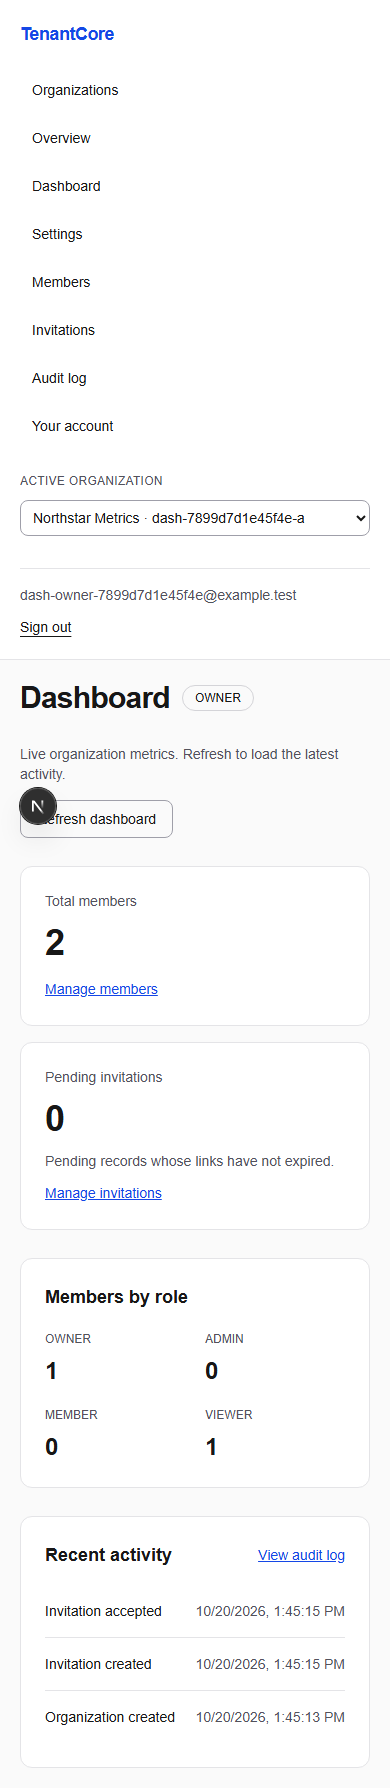
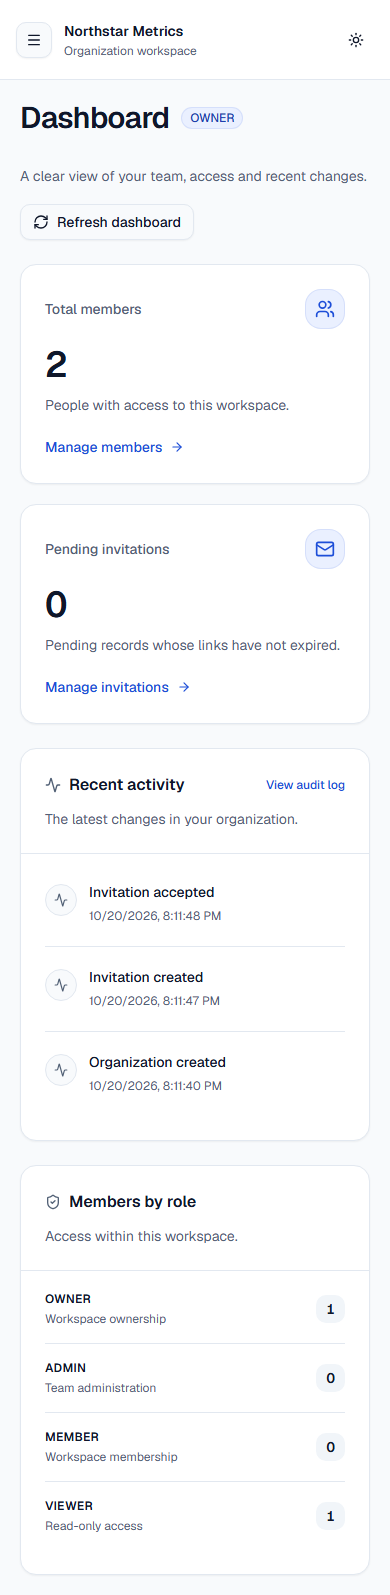
docs(ui): document component ownership and reviewed workspace captures

diff --git a/docs/architecture/ui-foundation.md b/docs/architecture/ui-foundation.md
@@ -1,0 +1,100 @@
+# Frontend UI foundation
+
+TC-013 introduces the first visual slice: workspace navigation and the live
+dashboard. [ADR 0006](../adr/0006-ui-foundation-and-motion.md) explains the choices;
+the [UI plan](../ui-implementation-plan.md) tracks later screen migrations.
+
+## Ownership and boundaries
+
+`components/ui` contains shadcn/ui source generated with CLI **4.22.1**, using
+the Radix/new-york style, then reviewed and formatted locally. Imports use our
+`lib/utils.ts` `cn` helper (clsx + tailwind-merge); do not add a second `cn` package
+when updating generated components. `components.json` records paths and style.
+Generated code must undergo the same review as handwritten code.
+
+`OrganizationsPanel` continues to own identity, organization loading, pagination,
+settings mutations and sign-out. `WorkspaceShell` takes public data and callbacks
+and owns presentation: desktop sidebar, mobile sheet, active links, organization
+selector, account menu and theme control. The API remains the authorization
+boundary. Changing the selected organization navigates to its URL and does not
+write a global tenant to localStorage. Each sidebar instance has a unique labelled
+native selector, including when the mobile portal is open.
+
+`DashboardPanel` is dynamically imported only when requested, so ordinary workspace
+pages do not eagerly load its Motion subtree. It retains the existing dashboard
+contract. Its small presentation
+components render actual metrics, role counts and safe activity labels. Loading
+uses skeletons without invented counts; refresh disables repeat submissions and
+replaces stale content with loading. Failure removes prior metrics. The existing
+keyed dashboard is replaced when its tenant changes, so outgoing protected data
+is not retained for an exit animation.
+
+## Visual system
+
+`app/globals.css` defines semantic surface/text/accent/border/focus tokens for
+light and dark themes. Prefer `bg-card`, `text-muted-foreground`, `border-border`
+and related tokens over per-screen fixed colors. Primary blue identifies actions
+and active navigation; neutral surfaces keep information readable. Use Geist via
+the existing next/font variables. Do not add a second font download mechanism.
+
+`next-themes` controls a single `html` class with light/dark/system choices and
+persists only the visual preference. Its initial script prevents a wrong-theme
+flash. The root's `suppressHydrationWarning` is limited to the html element that
+this script updates, as documented by shadcn; it must not be copied to arbitrary
+components to hide hydration bugs. Theme-specific icons use CSS, and menu content
+is mounted only on interaction rather than rendering mismatched theme labels.
+
+Existing forms inherit the font/theme foundation. Their full component migration
+is a later slice; preserve field names, labels, native form behavior and secure
+authentication navigation when working on those screens.
+
+## Interaction and accessibility
+
+- Links expose `aria-current="page"`. A skip link reaches the main workspace.
+- Mobile navigation uses the shadcn Sheet/Radix Dialog for focus trapping, Escape,
+  background isolation and trigger focus restoration. Do not implement a second
+  keyboard trap around it. The sheet closes on navigation/organization selection.
+- Account and appearance controls use Radix menus with keyboard navigation.
+- Motion is imported only by the dashboard client subtree, using LazyMotion/m
+  with a 200 ms entry transition. Metrics themselves are never animated values.
+  `MotionConfig` and `useReducedMotion` respect the OS preference; CSS transitions
+  and skeleton/menu animations also reduce motion through a media query.
+- Loading and errors remain semantic, independent of animation completion.
+- Long organization/user content must truncate or wrap without widening the page.
+
+## Updating components
+
+Run commands from the repository root and review the entire resulting diff:
+
+```sh
+pnpm dlx shadcn@4.22.1 add <component> -c apps/web
+pnpm install --frozen-lockfile
+pnpm lint
+pnpm typecheck
+pnpm test
+pnpm build
+```
+
+Install only components used in the current slice. Root `pnpm-lock.yaml` is the
+monorepo dependency source; avoid incidental rewrites of the legacy nested web
+lockfile/config. Review future CLI dependency suggestions, helper imports and CSS
+changes before committing. Pin new direct dependencies and commit the root lock.
+
+Use the existing isolated database and browser instructions in CONTRIBUTING for
+full regression. Browser acceptance should cover light/dark/system persistence,
+mobile sheet focus and navigation, role-aware links, per-tab tenants, reduced
+motion and axe WCAG 2.2 AA checks on the changed dashboard. Automated audits do
+not establish complete WCAG compliance; inspect the real desktop/mobile captures
+and perform keyboard checks as well. Record actual results in the PR.
+
+Playwright starts Next with `TENANTCORE_BROWSER_TESTS=1`, selecting the ignored
+`.next-e2e` output and `tsconfig.e2e.json`. This avoids competing with a developer's
+running Next server for the default dev lock. The test config extends the same
+strict compiler options; no type/build checks are disabled. Next still regenerates
+the ignored `next-env.d.ts`; run the normal `pnpm typecheck` after browser tests
+to regenerate its default-output references. Do not run type generation, builds
+and browser servers concurrently against the same output directory, or HTTP and
+browser suites concurrently against the same test database.
+Browser assertions allow 10 seconds for development's cold route compilation;
+the total journey timeout and every functional/accessibility assertion remain
+enabled. This is not a production latency budget.

diff --git a/docs/ui-implementation-plan.md b/docs/ui-implementation-plan.md
@@ -1,12 +1,15 @@
 # UI/UX implementation plan
 
-Status: TC-013 first delivery in progress. Product language remains English.
+Status: TC-013 first delivery implemented; review and published CI tracked in its PR.
+Product language remains English.
 Visual direction: neutral SaaS surfaces, a blue accent, clear hierarchy and subtle
-motion. Architecture and boundaries are recorded in ADR 0006.
+motion. Architecture and boundaries are recorded in
+[ADR 0006](adr/0006-ui-foundation-and-motion.md); component ownership and test
+instructions are in the [UI foundation guide](architecture/ui-foundation.md).
 
 | Slice | Deliverable | Acceptance |
 | --- | --- | --- |
-| 1 — TC-013 | Tokens, Geist, shadcn/ui primitives, themes, responsive workspace navigation and dashboard | Existing identity/tenant flows pass; real metrics, keyboard controls, mobile navigation, dark mode and reduced motion work; screenshots and CI evidence recorded. |
+| 1 — TC-013 (implemented) | Tokens, Geist, shadcn/ui primitives, themes, responsive workspace navigation and dashboard | Local checks passed; maintainer review and exact published CI evidence tracked in the PR. |
 | 2 — planned | Login, registration, verification, recovery and account UI | Preserve non-enumerating responses, input semantics, pending/error states, autocomplete and session navigation. |
 | 3 — planned | Organization forms, members, invitations and audit UI | Clear hierarchy, readable tables, filters and safe destructive confirmations; preserve API authorization and pagination. |
 | 4 — planned | Landing, service status and remaining visual consistency | Real capabilities only; accessible failures and consistent desktop/mobile themes. |
@@ -14,6 +17,27 @@ motion. Architecture and boundaries are recorded in ADR 0006.
 Each slice gets a focused branch/PR with coherent commits for decisions,
 foundation, functional UI and verification evidence as appropriate. Do not add
 unrelated infrastructure or new business capabilities to a UI migration.
+
+## TC-013 local evidence
+
+Frozen-lockfile installation and Prisma generation completed. Lint, generated-type
+typecheck, 40 API unit tests, 39 frontend unit/component tests, 79 HTTP/PostgreSQL
+tests and both production builds passed. All five Chromium journeys passed across
+identity/organizations, collaboration and operations (163 tests total).
+
+The operations journey also verifies light/dark/system persistence, absence of
+hydration errors, current-page navigation, keyboard account menus, mobile sheet
+focus trapping/restoration and navigation, long-name overflow at mobile/tablet
+widths, reduced motion and removal of metrics after an unavailable response.
+Selected axe WCAG A/AA rule-tag audits pass on light/dark dashboards and mobile navigation;
+this does not certify the whole application as WCAG compliant.
+
+A follow-up Windows shutdown diagnostic passed 77 HTTP tests with open-handle
+detection and the two subprocess-based seed tests separately in normal mode.
+No API implementation, schema, migration or deployment change was required.
+The local developer server was preserved; browser test output is isolated.
+Real captures are linked in README. The PR records final Linux CI evidence;
+public demonstration hosting remains deferred independently of this UI delivery.
 
 ## Review checklist
 

diff --git a/CONTRIBUTING.md b/CONTRIBUTING.md
@@ -12,6 +12,17 @@ Run frozen-lockfile install, Prisma generate, lint, typecheck, tests and build.
 HTTP/browser tests require the isolated `tenantcore_test` database and private
 SMTP capture; never point them at development/production. Browser project groups
 start fresh servers to preserve real rate limits. See README for all commands.
+Next browser servers use an ignored `.next-e2e` directory so they do not compete
+with a developer's `.next/dev` lock. Run the normal typecheck after browser tests
+to regenerate Next's default type references. Run HTTP and browser suites
+sequentially against the shared test database.
+
+For visual changes, follow the [UI foundation guide](docs/architecture/ui-foundation.md).
+Keep shadcn primitives separate from domain controllers; use semantic theme tokens
+and respect reduced motion. Verify keyboard/focus behavior, real API states and
+mobile overflow, and inspect screenshots in light/dark themes. Axe audits cover
+the changed dashboard and complement functional tests; they are not a declaration
+of complete accessibility compliance.
 
 Tenant authorization belongs to the API: verified identity, current membership,
 organization-relative role and scoped resource lookup on every operation. Share

diff --git a/README.md b/README.md
@@ -147,7 +147,16 @@ back to the account/organizations.
 
 ![Administrative dashboard captured from real API/browser activity](docs/screenshots/dashboard.png)
 
-[Mobile dashboard](docs/screenshots/dashboard-mobile.png).
+[Mobile dashboard](docs/screenshots/dashboard-mobile.png) ·
+[Dark dashboard](docs/screenshots/dashboard-dark.png) ·
+[Mobile navigation](docs/screenshots/dashboard-navigation-mobile.png).
+
+The workspace UI uses owned shadcn/ui components, semantic light/dark/system
+themes, a responsive navigation sheet and subtle reduced-motion-aware dashboard
+transitions. See the [UI foundation guide](docs/architecture/ui-foundation.md)
+and [staged UI plan](docs/ui-implementation-plan.md); authentication and management
+form redesigns remain later slices.
+
 Use the [isolated local demo guide](docs/operations/local-demo.md) for three
 fictional identities, two organizations and different per-tenant roles, without
 touching development/test data. The seed requires an operator-selected fictional

diff --git a/docs/adr/0006-ui-foundation-and-motion.md b/docs/adr/0006-ui-foundation-and-motion.md
@@ -19,7 +19,8 @@ Organization navigation, loading states and cards repeat presentation classes.
   generated components as code and record the CLI version used in the UI guide.
 - Define semantic CSS variables for surfaces, text, borders, accent and focus.
   Use Geist consistently. Use next-themes' class strategy with light/dark/system
-  choices; defer the theme control until mounted to avoid hydration disagreement.
+  choices; keep initial control markup independent of browser preferences and
+  render the current choice in the interactive menu to avoid hydration disagreement.
   The root stays a Server Component; the documented html-only hydration warning
   exception is limited to next-themes' pre-hydration theme attribute mutation.
 - Extract a presentational workspace shell from OrganizationsPanel. Keep current
